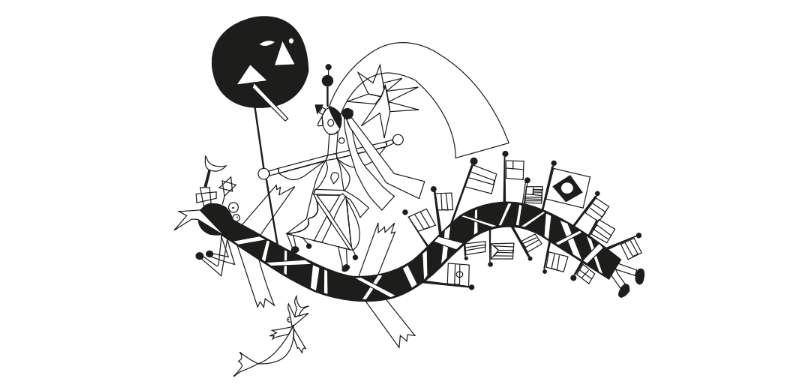
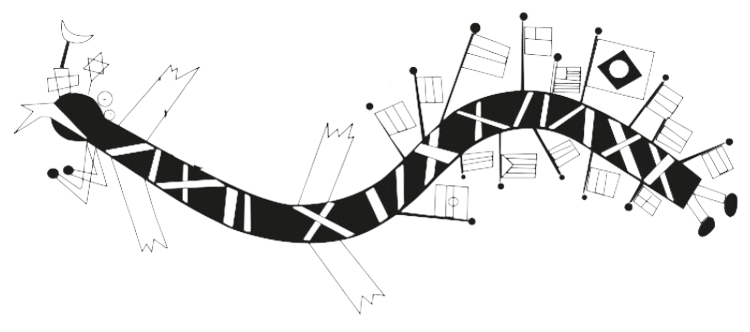
imagenes sin fondo

diff --git a/front-end/src/components/destacados/destacados.jsx b/front-end/src/components/destacados/destacados.jsx
@@ -7,9 +7,12 @@ import  educacion from '../../imagenes/destacados/educacion.png';
 import  elMuseo from '../../imagenes/destacados/elMuseo.png';
 import  exposiciones from '../../imagenes/destacados/exposiciones.png';
 import  testimonio from '../../imagenes/destacados/testimonio.png';
-import  firmaXul from '../../imagenes/destacados/firmaXul.png';
+import  firma6Xul from '../../imagenes/destacados/firma6Xul.png';
+import  personasXul from '../../imagenes/destacados/personasXul.png';
+import  firma8Xul from '../../imagenes/destacados/firma8Xul.png';
 import  carasXul from '../../imagenes/destacados/carasXul.png';
 import  serpienteXul from '../../imagenes/destacados/serpienteXUl.png';
+import  escafandraXul from '../../imagenes/destacados/escafandraXul.png';
 
 const Destacados = () =>{
     return(
@@ -17,29 +20,29 @@ const Destacados = () =>{
 
             <span class="flex items-center justify-center mt-[20px]">DESTACADO</span>
           
-             <div class="ml-[30px] mr-[50px] mt-[10px] h-[800px] border-solid border-2 border-white-500 bg-gray-100">
-                <div class="grid grid-cols-4 grid-rows-4 gap-4 mr-[30px] ml-[30px] mt-[20px] mb-[20px] " >
+             <div class="ml-[30px] mr-[50px] mt-[10px] h-[800px] border-solid border-2 border-white-500 bg-gray-100 ">
+                <div class="grid grid-cols-4 grid-rows-4 gap-4 mr-[30px] ml-[30px] mt-[20px] mb-[20px]" >
                   
-                    <div>
-                        <img src={firmaXul} alt="Descripción de la imagen" class="w-full h-[100px] mt-[0px]" />
+                    <div class="" >
+                        <img src={firma6Xul} alt="Descripción de la imagen" class=" w-[140px] h-[80px] mt-[10px] ml-[50px]  " />
                     </div>
 
-                    <div class="relative  h-[300px] mt-[65px]">
+                    <div class="relative  h-[300px] mt-[65px]  ">
                         <a href="https://www.xulsolar.org.ar/bibliografia.html" class="relative group">
-                            <img src={bibliografia} alt="Descripción de la imagen" class="w-full h-[300px] mt-[0px] object-cover transition-transform transform group-hover:scale-105" />
+                            <img src={bibliografia} alt="Descripción de la imagen" class="  w-full h-[300px] mt-[0px]  object-cover transition-transform transform group-hover:scale-105   " />
                             <p class="absolute bottom-0 left-0 w-full px-2 py-1 text-white bg-black bg-opacity-75 transition-opacity opacity-0 group-hover:opacity-100">BIBLIOGRAFÍA</p>
                         </a>
                     </div>
                     
                     <div class="relative   h-[200px] mt-[30px]">
                         <a href="https://www.xulsolar.org.ar/biografia.html" class="relative group">
-                            <img src={biografiaXulSolar} alt="Descripción de la imagen" class="w-full h-[200px] object-cover transition-transform transform group-hover:scale-105"/>
+                            <img src={biografiaXulSolar} alt="Descripción de la imagen" class="w-full h-[200px]  object-cover transition-transform transform group-hover:scale-105"/>
                             <p class="absolute bottom-0 left-0 right-0 px-2 py-1 text-white bg-black bg-opacity-75 transition-opacity opacity-0 group-hover:opacity-100 text-center">BIBLIOGRAFÍA XUL SOLAR</p>
                         </a>
                     </div>
 
-                    <div>
-                        <img src={carasXul} alt="Descripción de la imagen" class="w-full h-[100px] mt-[65px]" />
+                    <div class="mt-[20px]">
+                        <img src={personasXul} alt="Descripción de la imagen" class=" w-[200px] h-[120px] mt-[0px] ml-[30px]" />
                     </div>
                     
                     <div class="relative h-[150px] mt-[-270px]">
@@ -99,8 +102,8 @@ const Destacados = () =>{
                         </a>    
                     </div>
 
-                    <div class="relative  h-[100px] mt-[-570px]">
-                        <img src={firmaXul} alt="Descripción de la imagen" class="w-full h-[100px] mt-[0px]" />
+                    <div class="relative  h-[80px] mt-[-580px] ">
+                        <img src={escafandraXul} alt="Descripción de la imagen" class="w-[150px] h-[200px] mt-[0px] ml-[45px]" />
                     </div>
 
                     <div >
@@ -109,7 +112,7 @@ const Destacados = () =>{
 
 
                     <div class="relative  h-[100px] mt-[-570px]">
-                        <img src={firmaXul} alt="Descripción de la imagen" class="w-full h-[100px] mt-[0px]" />
+                        <img src={firma8Xul} alt="Descripción de la imagen" class="w-full h-[100px] mt-[0px]" />
                     </div>
 
                 
